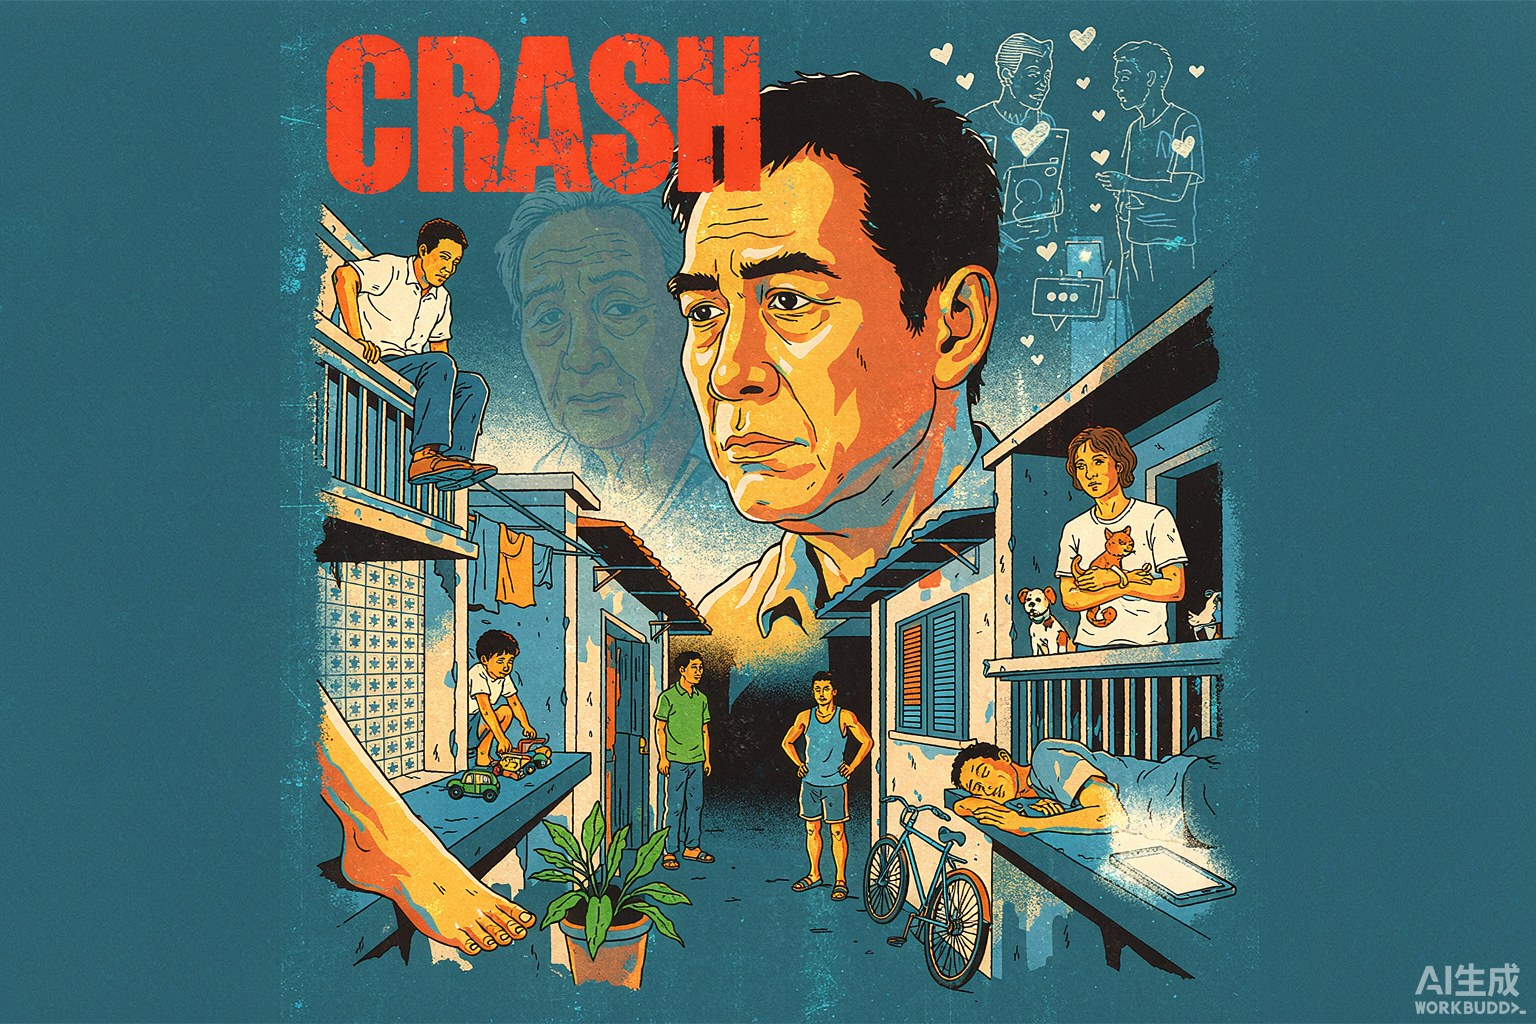
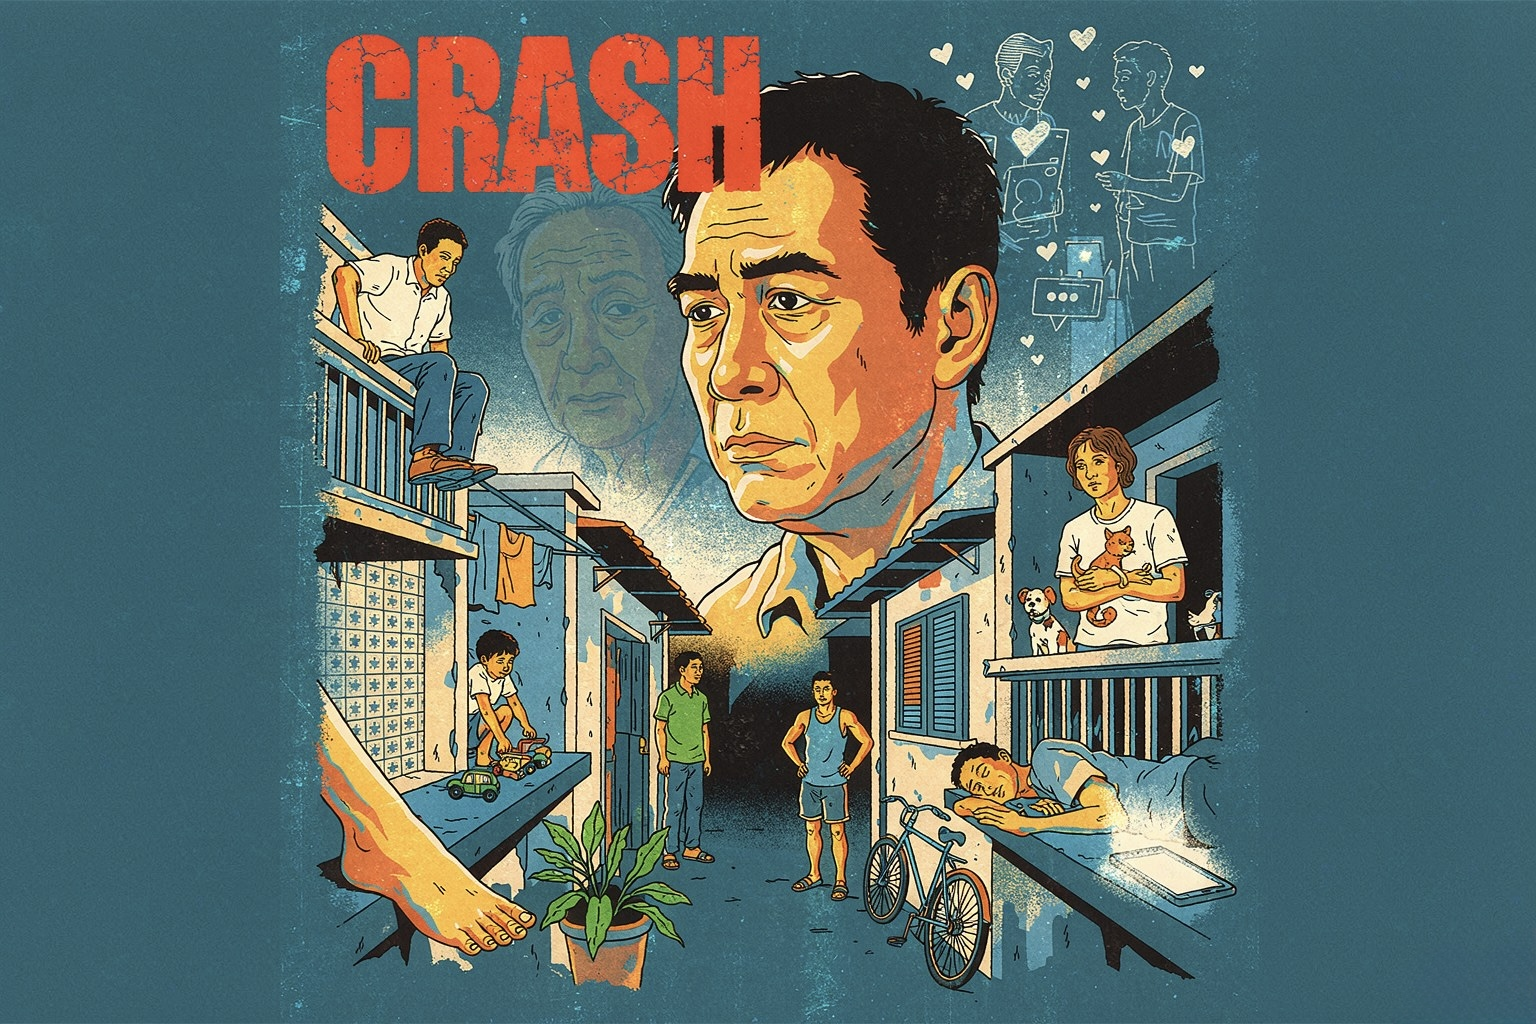
fix: #57《撞牆》海報換用軒哥提供去浮水印定稿版（八件套重生成＋body img 升 v=20260929b）
- 直版/橫版 jpg 原檔 copy 用戶定稿（H:/桌面/澳門電影海報/），PNG/webp/OG 重生成
- posts.json body img 升 ?v=20260929b 破快取，rebuild 後 article 引用一致
- 修復：上線時誤用 AI 生成（帶 WORKBUDDY 浮水印）圖，已更正為軒哥定稿
- 鐵律已寫入 macau-movie-poster SKILL.md：上線附圖即定稿，必須先換八件套

diff --git a/article/crash-2016/index.html b/article/crash-2016/index.html
@@ -144,7 +144,7 @@ h1{font-size:30px;line-height:1.45;color:var(--blue);font-weight:800;margin-bott
 <p class="lead">二十二分鐘。澳門導演孔慶輝用一間老屋、一條舊街、一個撞向牆壁後腦勺的特寫，把整座城市的數位焦慮講完了。這部短片叫《撞牆》，二〇一六年上映，粵語，澳門製造；它後來成了第一部敲開金馬獎最佳劇情短片門的澳門電影。可它最讓我坐不…</p>
 
 <figure class="cover"><img src="../../assets/og/crash-2016-cover.jpg?v=20260929f" alt="《撞牆》觀後感 — 澳門電影 配圖" loading="lazy"></figure>
-<div class="abody"><img src="../../assets/og/crash-2016-poster.jpg?v=20260929a" alt="《撞牆》電影海報" style="column-span:all;width:min(100%,520px);display:block;margin:8px auto 28px;border-radius:10px">
+<div class="abody"><img src="../../assets/og/crash-2016-poster.jpg?v=20260929b" alt="《撞牆》電影海報" style="column-span:all;width:min(100%,520px);display:block;margin:8px auto 28px;border-radius:10px">
 <p>二十二分鐘。澳門導演孔慶輝用一間老屋、一條舊街、一個撞向牆壁後腦勺的特寫，把整座城市的數位焦慮講完了。這部短片叫《撞牆》，二〇一六年上映，粵語，澳門製造；它後來成了第一部敲開金馬獎最佳劇情短片門的澳門電影。可它最讓我坐不住的，不是那個獎，而是它把攝影機架在澳門最少被看見的一種地方——一條連遊客地圖都未必標得出來的老圍里，去拍一則最屬於這個時代的孤獨。</p>
 <p>很多講澳門的電影，要麼把這座城當浪漫佈景，要麼當黑幫戰場。《撞牆》兩樣都不沾。它講的是一個五十歲的男人，在網上發了一篇尋親文，然後被網絡整個吞掉。故事很澳門，拍攝地也很澳門；但那種焦慮，是全世界的。</p>
 <p>二〇一六年五月十四日，《撞牆》在澳門國際電影及錄像展首映；九月二十二日於「影像新勢力」單元再映，十月入選瑞士 Shnit 國際短片節，十一月拿下台灣南方影展最佳劇情片獎。導演孔慶輝，澳門人，世新大學廣告系畢業，曾任天邊外（澳門）劇場團長逾十年，二〇一四年成立地地影像工房。編劇杜咏琪、孔慶輝，主演黄柏豪、朱杏兒。片長約二十二分鐘（各資料源在二十至二十二分之間略有出入），粵語，澳門製造。本片為文化局澳門文化中心「澳門影像新勢力二零一六」劇情短片公開組作品，並入圍第五十三屆金馬獎最佳劇情短片——那是澳門人第一次，以短片之姿走進金馬的提名名單。除此之外，它還拿過第十屆澳門國際電影及錄像展「澳門製造」短片組評審推介獎、第十三屆中國獨立影像展最佳短片獎、第五屆重慶青年電影展最佳導演，並入選柏林國際短片影展、香港獨立電影節二〇一七、佛羅倫薩短片節與富川國際奇幻影展。IMDb 編號 tt6142158。</p>
